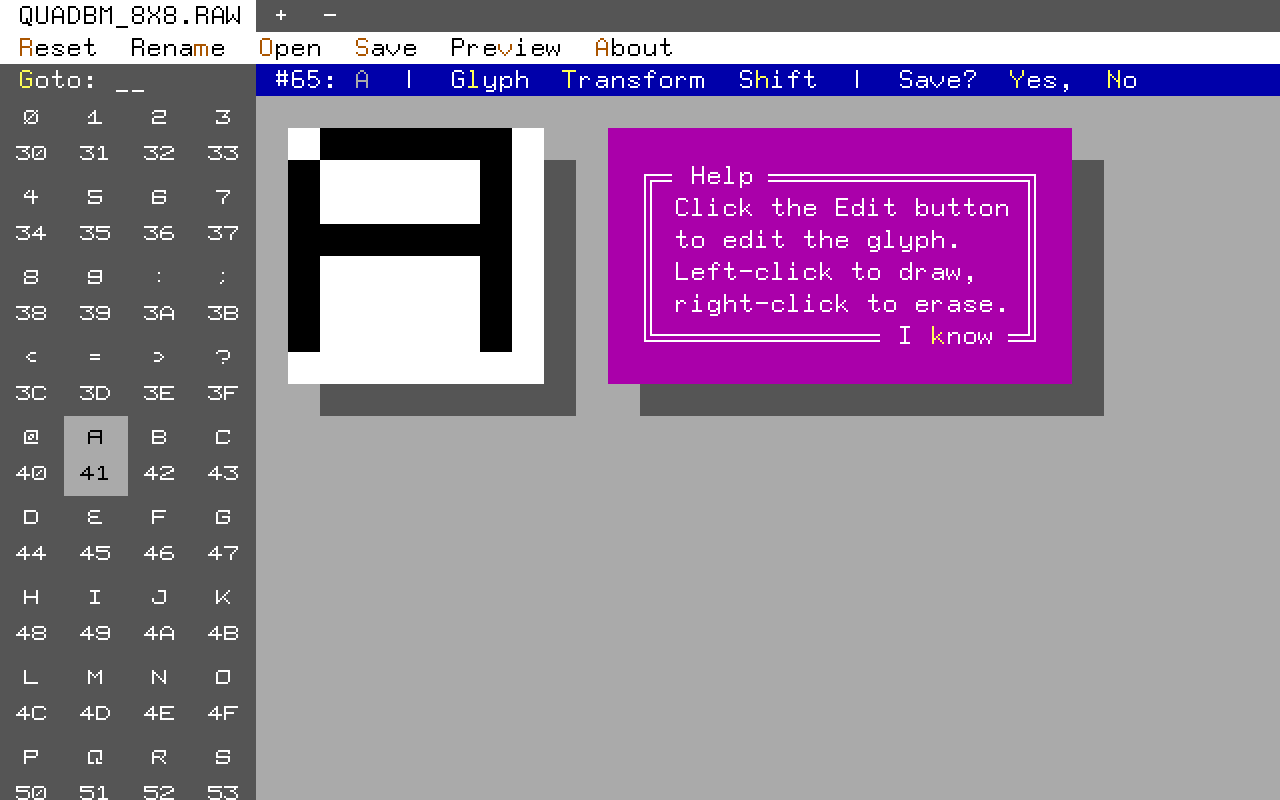
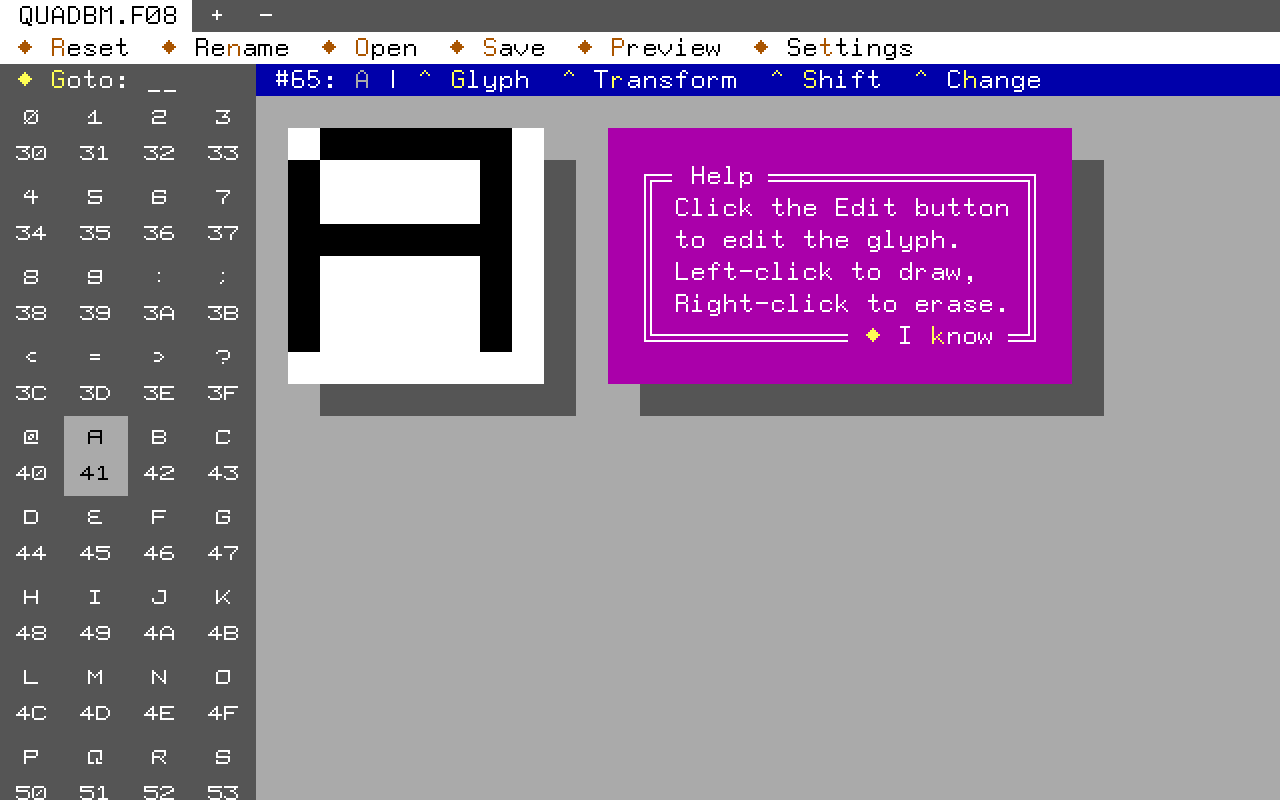
add setting

diff --git a/scripts/script.js b/scripts/script.js
@@ -1,6 +1,6 @@
 let editorData = {
     about: {
-        version: '0.1.2',
+        version: '0.2.0',
         github: 'https://github.com/Sennoma-Nn/Vga-Font-Editor-Online'
     },
     tab: 0,
@@ -23,6 +23,10 @@ let editorData = {
     clipboard: {
         data: '',
         height: NaN
+    },
+    setting: {
+        showHelp: true,
+        metaKey: 'alt'
     }
 }
 
@@ -319,9 +323,13 @@ async function menuSaveFont() {
 function menuPreviewFont() {
     updatePreviewCanvas();
     const previewDiv = document.getElementById('preview');
+    const settingsDiv = document.getElementById('settings');
+
     if (previewDiv.style.display === 'none' || previewDiv.style.display === '') {
         previewDiv.style.display = 'block';
     } else previewDiv.style.display = 'none'
+
+    settingsDiv.style.display = 'none'
 }
 
 function menuRenameFont() {
@@ -375,16 +383,7 @@ function updateMenu() {
                 <button class="menu-button" onclick="menuOpenFont()">${lang('Open')}</button>
                 <button class="menu-button" onclick="menuSaveFont()">${lang('Save')}</button>
                 <button class="menu-button" onclick="menuPreviewFont()">${lang('Preview')}</button>
-                <button class="menu-button" onclick="menuAbout()">${lang('About')}</button>
-            `;
-            break;
-        case 'about':
-            actionButtons = `
-                <button class="menu-button" onclick="bakcMainMenu()">${lang('BackMainMenu')}</button>
-                <span>|&nbsp;</span>
-                <span>VGA FONT EDITOR ONLINE ${editorData.about.version}</span>
-                <span>&nbsp;|</span>
-                <button class="hyper-link-button" onclick="viewOnGitHub()">${lang('ViewOnGitHub')}</button>
+                <button class="menu-button" onclick="menuSettings()">${lang('Settings')}</button>
             `;
             break;
     }
@@ -610,9 +609,59 @@ function updatePreviewCanvas() {
     drawArr(ctx, testBlock, 33, 16, fontHeight);
 }
 
-function menuAbout() {
-    editorData.menuMode = 'about';
-    updateMenu();
+function menuSettings() {
+    const previewDiv = document.getElementById('preview');
+    const settingsDiv = document.getElementById('settings');
+
+    previewDiv.style.display = 'none'
+
+    if (settingsDiv.style.display === 'none' || settingsDiv.style.display === '') {
+        settingsDiv.style.display = 'block';
+    } else settingsDiv.style.display = 'none'
+
+    updateSetting(settingsDiv);
+}
+
+function updateSetting(settingsDiv) {
+    const showHelp = editorData.setting.showHelp;
+    const metaKey = editorData.setting.metaKey;
+    settingsDiv.innerHTML = `
+        <span style="position: absolute; top: calc(32px * 1); left: 16px">
+            VGA FONT EDITOR ONLINE -- V${editorData.about.version}
+        </span>
+
+        <button style="position: absolute; top: calc(32px * 2); left: 16px" class="hyper-link-button" onclick="viewOnGitHub()">
+            ${lang('ViewOnGitHub')}
+        </button>
+
+        <span style="position: absolute; top: calc(32px * 4); left: 0">
+            <button class="menu-button-dark" onclick="toggleShowHelp()">
+                ${lang('ShowHelp')}: ${showHelp ? lang('ShowHelpYes') : lang('ShowHelpNo')}
+            </button>
+        </span>
+
+        <span style="position: absolute; top: calc(32px * 5); left: 0">
+            <button class="menu-button-dark" onclick="toggleMetaKey()">
+                ${lang('MetaKeyIs')}: ${metaKey === 'alt' ? lang('AltKey') : lang('MetaKey')}
+            </button>
+        </span>
+    `
+}
+
+function toggleMetaKey() {
+    editorData.setting.metaKey = editorData.setting.metaKey === 'alt' ? 'meta' : 'alt';
+    localStorage.setItem('metaKey', editorData.setting.metaKey);
+
+    const settingsDiv = document.getElementById('settings');
+    updateSetting(settingsDiv);
+}
+
+function toggleShowHelp() {
+    editorData.setting.showHelp = !editorData.setting.showHelp;
+    localStorage.setItem('showHelp', editorData.setting.showHelp);
+
+    const settingsDiv = document.getElementById('settings');
+    updateSetting(settingsDiv);
 }
 
 function bakcMainMenu() {
@@ -881,11 +930,10 @@ function undoChanges() {
     updateTitle();
 }
 
-function helpDisenable() {
+function closeHelp() {
     const helpDiv = document.getElementById('help-text');
     if (helpDiv) {
         helpDiv.style.display = 'none';
-        localStorage.setItem('helpDisenable', 'true');
     }
 }
 

diff --git a/scripts/keyboardShortcut.js b/scripts/keyboardShortcut.js
@@ -88,9 +88,7 @@ document.addEventListener('keydown', (e) => {
         return;
     }
 
-    if (e.ctrlKey || e.altKey || e.metaKey) {
-        e.preventDefault();
-    }
+    if (e.ctrlKey || e.altKey || e.metaKey) e.preventDefault();
 });
 
 document.addEventListener('keyup', (e) => {
@@ -124,10 +122,16 @@ document.addEventListener('keyup', (e) => {
 function matchBrightKey(bk, key, e) {
     if (bk.none) return false;
     if (bk.key !== key) return false;
-    if (bk.modifier === 'alt' && (!e.altKey || e.ctrlKey || e.metaKey)) return false;
-    if (bk.modifier === 'ctrl' && (!e.ctrlKey || e.altKey || e.metaKey)) return false;
-    if (bk.modifier === 'meta' && (!e.metaKey || e.altKey || e.ctrlKey)) return false;
-    if (!bk.modifier && (e.altKey || e.ctrlKey || e.metaKey)) return false;
+    if (bk.modifier === 'ctrl' && (!e.ctrlKey || e.metaKey)) return false;
+    if (bk.modifier === 'meta') {
+        const useAlt = editorData.setting.metaKey === 'alt';
+        if (useAlt) {
+            if (!e.altKey || e.ctrlKey || e.metaKey) return false;
+        } else {
+            if (!e.metaKey || e.ctrlKey || e.altKey) return false;
+        }
+    }
+    if (!bk.modifier && (e.ctrlKey || e.metaKey || e.altKey)) return false;
     return true;
 }
 

diff --git a/styles/styles.css b/styles/styles.css
@@ -194,7 +194,8 @@ bright {
 }
 
 .menu-button-dark:active bright,
-.menu-button-dark.pressed bright {
+.menu-button-dark.pressed bright,
+.menu-button-dark:hover bright {
     color: var(--color-brown);
 }
 
@@ -529,21 +530,19 @@ bright {
 }
 
 .hyper-link-button {
-    height: 100%;
-    line-height: 100%;
     background: transparent;
     border: none;
     box-shadow: none;
     outline: none;
-    padding: 0 16px;
+    padding: 0;
     margin: 0;
     font: inherit;
-    color: var(--color-blue);
+    color: var(--color-light-cyan);
     flex-shrink: 0;
 }
 
 .hyper-link-button:hover {
-    color: var(--color-light-blue);
+    color: var(--color-cyan);
     cursor: pointer
 }
 
@@ -616,4 +615,23 @@ bright {
 .menu-item.has-submenu.submenu-open > .submenu {
     display: block;
     box-shadow: 32px 32px 0 0 var(--color-dark-gray);
+}
+
+.settings {
+    position: absolute;
+    top: 64px;
+    left: 0;
+    width: 100%;
+    height: calc(100% - 64px);
+    min-width: var(--web-min-width);
+    min-height: calc(var(--web-min-height) - 64px);
+    background-color: var(--color-dark-gray);
+    color: var(--color-white);
+    z-index: 9999;
+    display: none
+}
+
+.settings button {
+    height: 32px;
+    line-height: 32px;
 }

diff --git a/index.html b/index.html
@@ -14,7 +14,8 @@
     <meta property="og:type" content="website">
     <meta property="og:url" content="https://sennoma-nn.github.io/Vga-Font-Editor-Online/">
     <meta property="og:title" content="VGA FONT EDITOR ONLINE">
-    <meta property="og:description" content="Online VGA bitmap font editor. Edit and create VGA Pixel fonts in your browser.">
+    <meta property="og:description"
+        content="Online VGA bitmap font editor. Edit and create VGA Pixel fonts in your browser.">
     <meta property="og:image" content="https://sennoma-nn.github.io/Vga-Font-Editor-Online/imgs/ScreenShot.png">
 </head>
 
@@ -62,6 +63,10 @@
 
     <div class="preview" id="preview">
         <canvas id="preview-canvas" class="preview-canvas"></canvas>
+    </div>
+
+    <div class="settings" id="settings">
+
     </div>
 </body>
 

diff --git a/scripts/init.js b/scripts/init.js
@@ -20,11 +20,13 @@
     charButtonArea.insertAdjacentHTML('beforeend', buttonsHTML);
 
     const container = document.querySelector('.canvars-and-help');
-    const isDisabled = localStorage.getItem('helpDisenable') === 'true';
+    const showHelp = localStorage.getItem('showHelp') === 'true';
+    const metaKey = localStorage.getItem('metaKey') === 'alt' ? 'alt' : 'meta';
 
-    if (!isDisabled) {
-        container.insertAdjacentHTML('beforeend', lang('HelpBlock'));
-    }
+    editorData.setting.showHelp = showHelp;
+    editorData.setting.metaKey = metaKey;
+
+    if (showHelp) container.insertAdjacentHTML('beforeend', lang('HelpBlock'));
 
     updateTabs();
     updateMenu();
